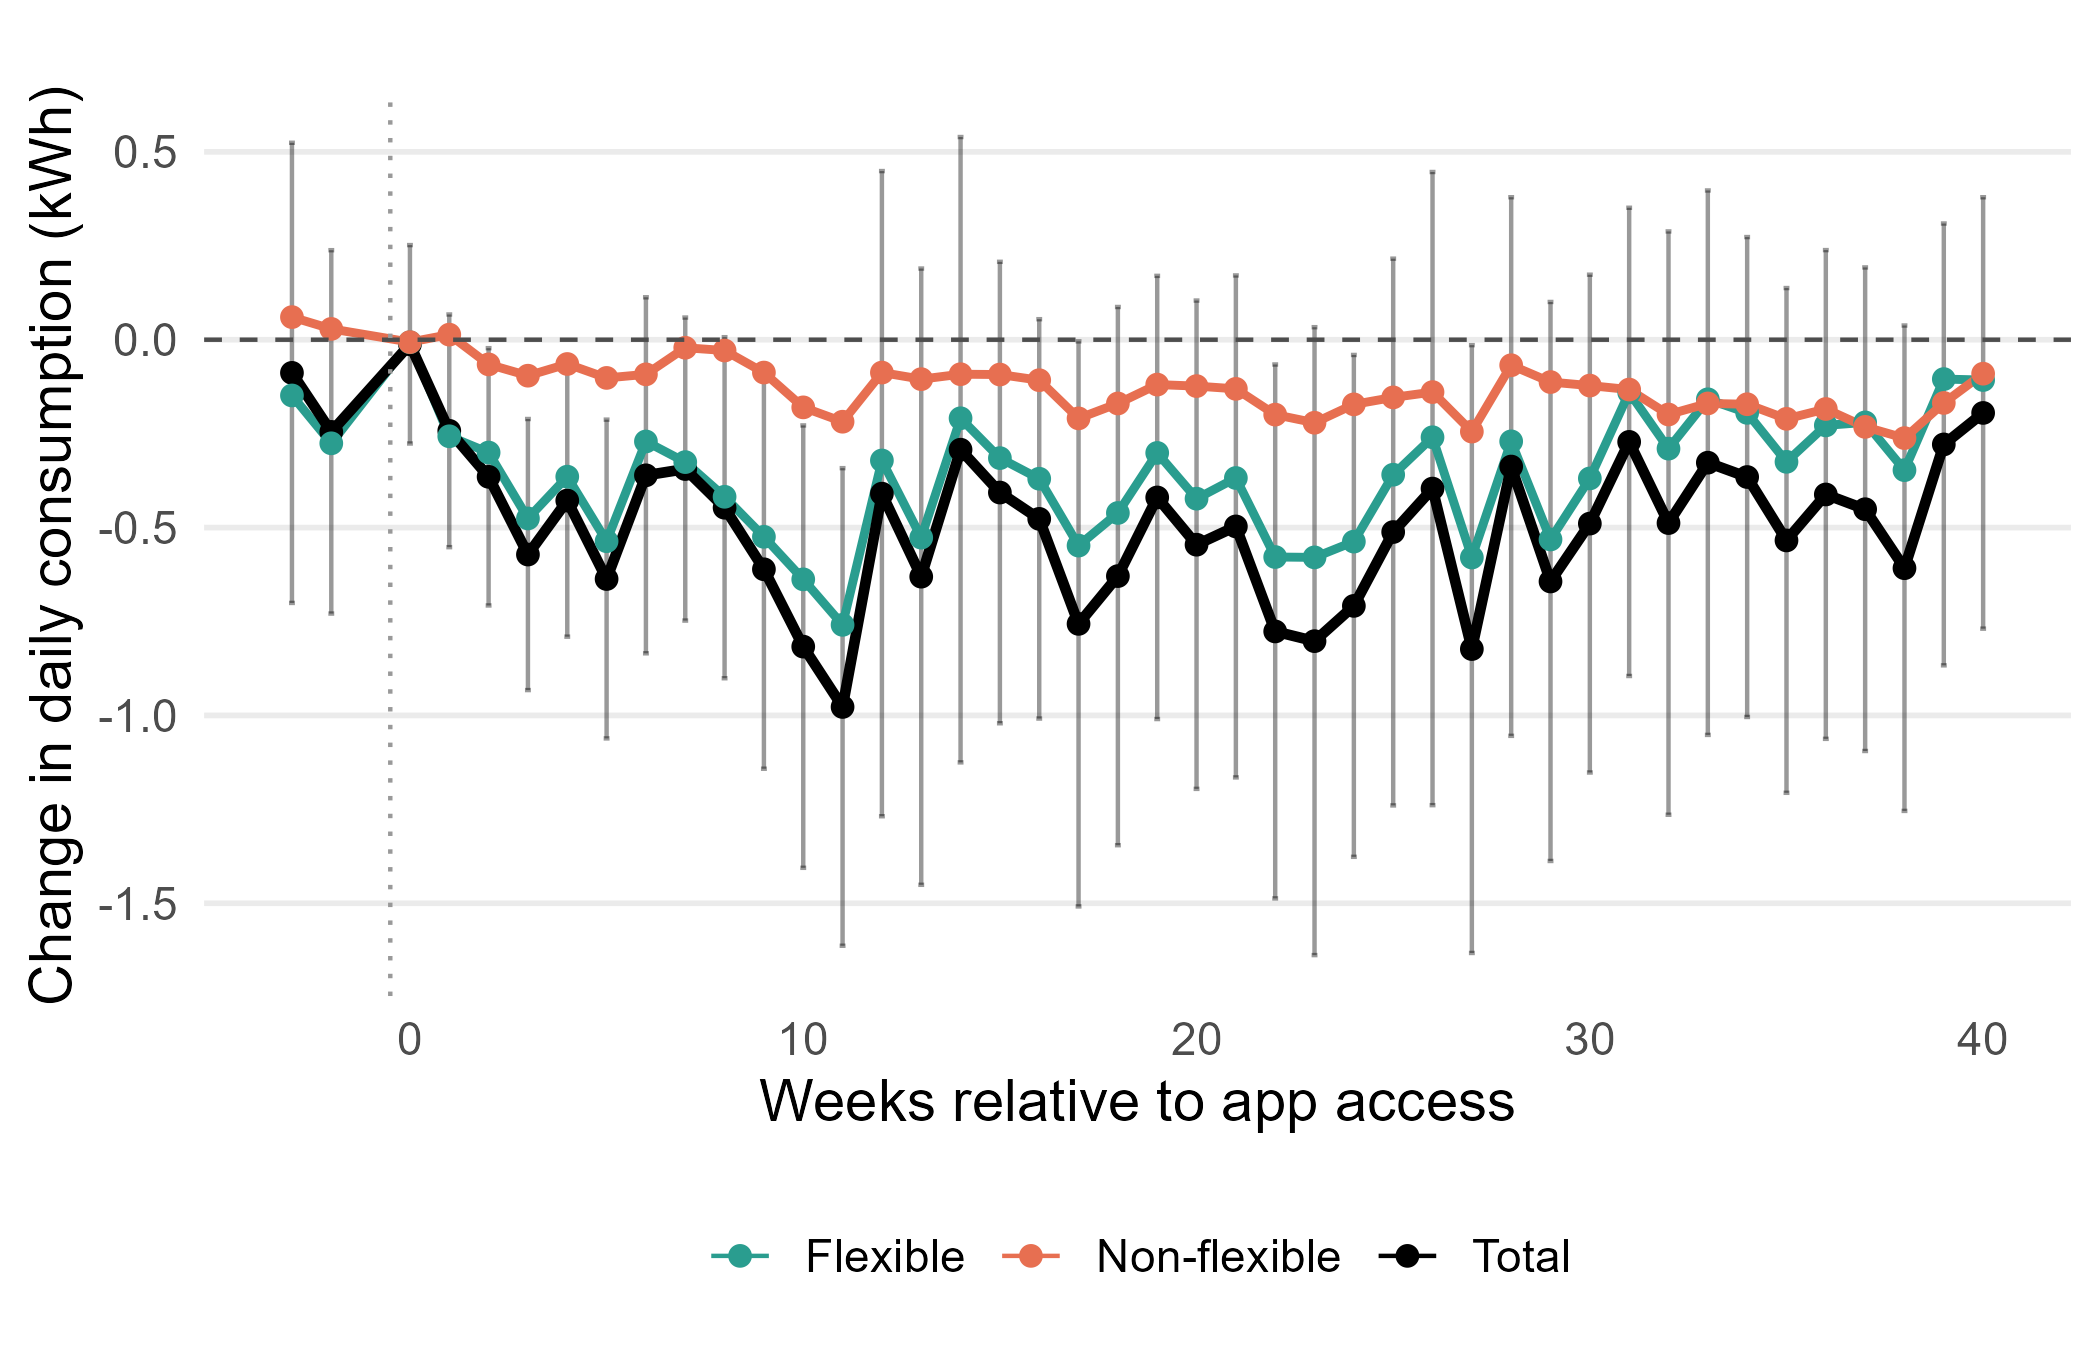
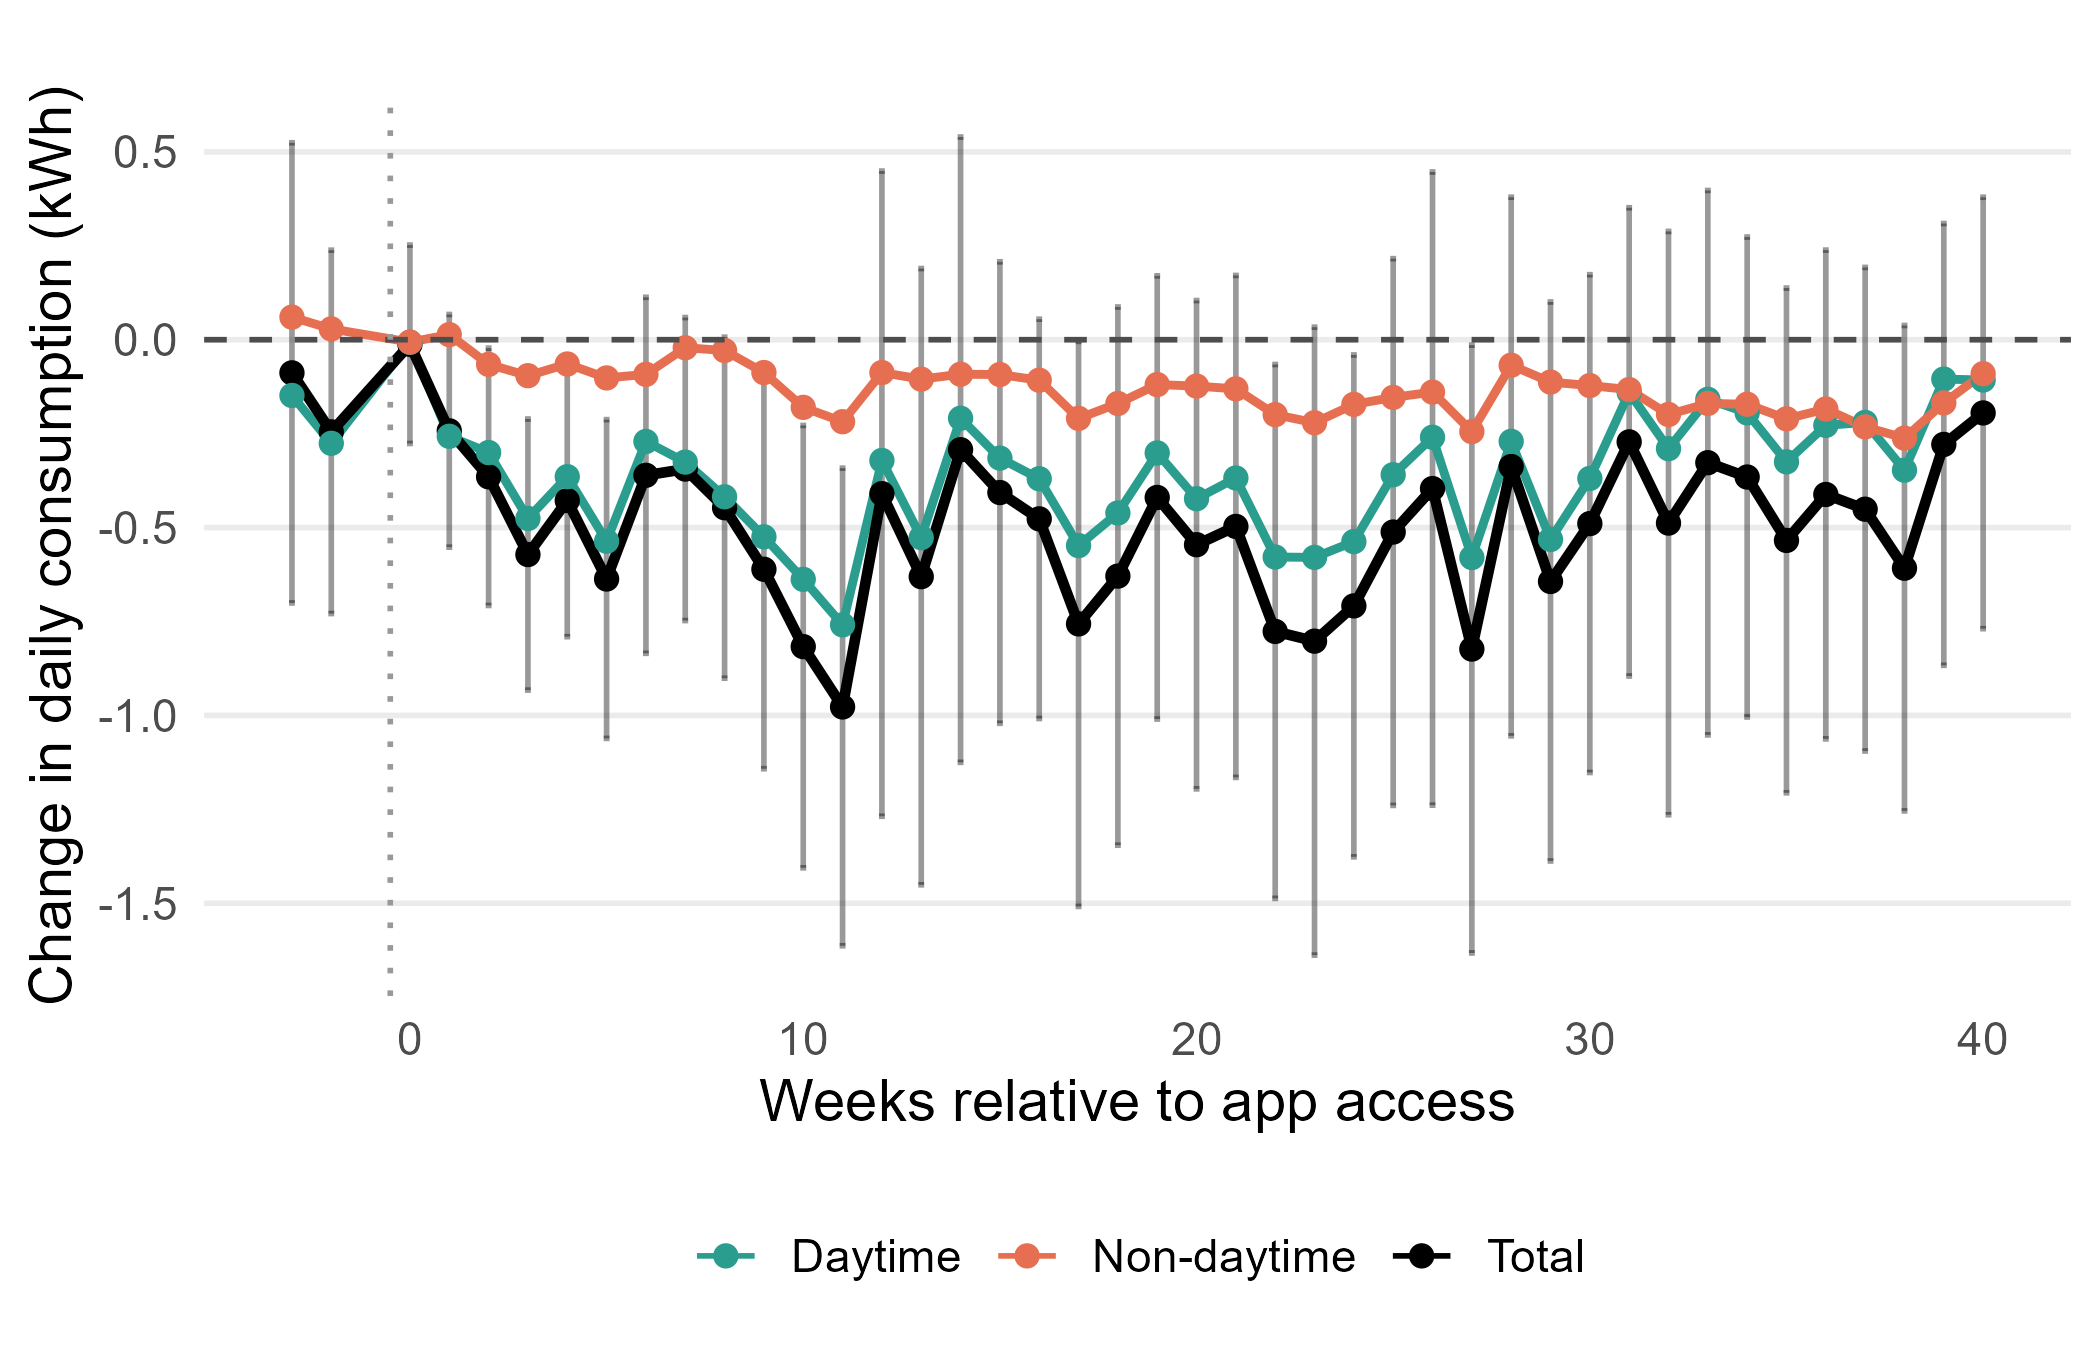
Fix verified numerical errors and unify daytime/non-daytime terminology
- Correct mean daily consumption footnote (9.8 -> 10 kWh) in results
- Correct Tranche 2 pre-treatment control mean (0.413 -> 0.417 kWh)
- Add footnote explaining obs-count difference in main results table
- Add footnote explaining 881 vs 892 households in appendix table
- Rename "flexible/non-flexible" to "daytime/non-daytime" throughout
  paper text, tables, and the event-study figure for consistency with
  the conceptual framework's terminology

diff --git a/paper/sections/05_results.tex b/paper/sections/05_results.tex
@@ -10,9 +10,9 @@ y_{it} = \sum_{k \neq -1} \beta_k \cdot \mathbb{1}\{t - G_i = k\} + \alpha_i + \
 \]
 where $y_{it}$ is household $i$'s daily electricity consumption (kWh, aggregated from 15-minute smart meter data), $G_i$ denotes app access timing, $\beta_k$ traces effects relative to the $k=-1$ pre-treatment reference, $\alpha_i$ absorbs time-invariant household differences, and $\delta_t$ controls common shocks (weekly or daily fixed effects). Standard errors are clustered at the household level.
 
-Table \ref{table:main_results} presents the main results. Across specifications, we observe a consistent reduction in electricity consumption following access to the application (columns 1--3). In the baseline specification (column 1), the two-way fixed effects (TWFE) estimate indicates a decrease of 0.47 kWh per household per day (SE = 0.206, $p = 0.023$). The corresponding Sun--Abraham estimate is similar in magnitude ($-0.45$ kWh, SE = 0.294, $p = 0.128$), suggesting that accounting for staggered treatment timing and heterogeneous effects does not materially alter the point estimate, although statistical precision is reduced. Including weekly fixed effects yields nearly identical results, with estimated reductions of 0.46--0.47 kWh (column 3). This corresponds to a reduction of approximately 4.7\% in electricity consumption.\footnote{This corresponds to about 4.7\%, computed as the 0.46 kWh effect relative to mean daily consumption of about 9.8 kWh.} We treat the Sun--Abraham estimator as our preferred specification, since it is robust to the biases that can arise in two-way fixed-effects models under staggered adoption and heterogeneous treatment effects \citep{sunEstimatingDynamicTreatment2021}.
+Table \ref{table:main_results} presents the main results. Across specifications, we observe a consistent reduction in electricity consumption following access to the application (columns 1--3). In the baseline specification (column 1), the two-way fixed effects (TWFE) estimate indicates a decrease of 0.47 kWh per household per day (SE = 0.206, $p = 0.023$). The corresponding Sun--Abraham estimate is similar in magnitude ($-0.45$ kWh, SE = 0.294, $p = 0.128$), suggesting that accounting for staggered treatment timing and heterogeneous effects does not materially alter the point estimate, although statistical precision is reduced. Including weekly fixed effects yields nearly identical results, with estimated reductions of 0.46--0.47 kWh (column 3). This corresponds to a reduction of approximately 4.7\% in electricity consumption.\footnote{This corresponds to about 4.7\%, computed as the 0.47 kWh TWFE effect relative to mean daily consumption of about 10 kWh.} We treat the Sun--Abraham estimator as our preferred specification, since it is robust to the biases that can arise in two-way fixed-effects models under staggered adoption and heterogeneous treatment effects \citep{sunEstimatingDynamicTreatment2021}.
 
-To further investigate the underlying behavioral adjustments and to address our second research question of whether treatment effects are larger for flexible than for non-flexible consumption, we decompose total consumption into these two components. The reduction in electricity use is primarily driven by flexible consumption, where households have greater scope for behavioral adaptation. In this domain, the estimated treatment effect ranges from 0.31 to 0.33 kWh (e.g., column 4: $-0.31$ kWh, SE = 0.156, $p = 0.048$), indicating economically meaningful reductions. In contrast, the effect on non-flexible consumption is smaller (approximately $-0.14$ to $-0.15$ kWh; column 5: $p = 0.082$) and only weakly statistically significant.
+To further investigate the underlying behavioral adjustments and to address our second research question of whether treatment effects are larger for daytime than for non-daytime consumption, we decompose total consumption into these two components. The reduction in electricity use is primarily driven by daytime consumption, where households have greater scope for behavioral adaptation. In this domain, the estimated treatment effect ranges from 0.31 to 0.33 kWh (e.g., column 4: $-0.31$ kWh, SE = 0.156, $p = 0.048$), indicating economically meaningful reductions. In contrast, the effect on non-daytime consumption is smaller (approximately $-0.14$ to $-0.15$ kWh; column 5: $p = 0.082$) and only weakly statistically significant.
 
 
 
@@ -24,7 +24,7 @@ To further investigate the underlying behavioral adjustments and to address our 
 \resizebox{\textwidth}{!}{%
 \begin{tabular}{lccccc}
 \toprule
- & Daily & Log hourly & Daily & Flexible & Non-flex. \\
+ & Daily & Log hourly & Daily & Daytime & Non-day. \\
  & kWh & kWh & kWh & kWh & kWh \\
 \cmidrule(lr){2-6}
  & (1) & (2) & (3) & (4) & (5) \\
@@ -74,7 +74,7 @@ Time FE      & Day & Day & Week & Week & Week \\
 
 \begin{tablenotes}[flushleft]
 \footnotesize
-\item The table reports intention-to-treat effects of app access on electricity consumption. Columns (1) and (3) use daily electricity consumption in kWh. Column (2) uses log hourly electricity consumption. Columns (4) and (5) split daily consumption into flexible and non-flexible consumption. TWFE estimates are from two-way fixed effects regressions. Sun--Abraham estimates report average treatment effects from staggered difference-in-differences models. Standard errors clustered at the household level are reported in parentheses. Significance levels: ** $p<0.05$, * $p<0.10$.
+\item The table reports intention-to-treat effects of app access on electricity consumption. Columns (1) and (3) use daily electricity consumption in kWh. Column (2) uses log hourly electricity consumption. Columns (4) and (5) split daily consumption into daytime and non-daytime consumption. TWFE estimates are from two-way fixed effects regressions. Sun--Abraham estimates report average treatment effects from staggered difference-in-differences models. Standard errors clustered at the household level are reported in parentheses. Significance levels: ** $p<0.05$, * $p<0.10$. The observation count in column (2) (8,287,525) is lower than the total number of hourly observations in the analysis sample (8,495,920, see Appendix Table~\ref{tab:sample_selection}) because the log specification drops 208,395 hours with zero consumption.
 \end{tablenotes}
 
 \end{threeparttable}
@@ -84,12 +84,12 @@ We next examine how treatment effects evolve over time. Figure \ref{fig:event_st
 
 Following app access, electricity consumption declines rapidly and becomes statistically distinguishable from zero after approximately two weeks. The reduction reaches a peak between weeks 3 and 11, with effect sizes ranging from about 0.6 to 1.0 kWh per day. For instance, consumption decreases by 0.572 kWh in week 3 ($p = 0.002$) and by 0.978 kWh in week 11 ($p = 0.003$). After this initial adjustment phase, the treatment effect gradually attenuates. The reduction remains significant for ~20–25 weeks. Thereafter, point estimates remain negative but are no longer precise. As shown in Figure \ref{fig:event_study}, the total effect remains consistently negative throughout the post-treatment period, with magnitudes of approximately 0.4–0.6 kWh. The pooled estimate beyond week 50 is around 0.55 kWh, indicating sustained reductions in electricity consumption over time. Notably, this persistence arises despite a substantial decline in app usage, suggesting that the behavioral adjustments induced by the intervention are not purely transitory. 
 
-The decomposition by consumption type provides additional insight. As shown in Figure~\ref{fig:event_study}, the decline in total consumption is driven primarily by flexible usage, which tracks the overall treatment effect closely over time. By contrast, non-flexible consumption remains comparatively stable and close to zero.
+The decomposition by consumption type provides additional insight. As shown in Figure~\ref{fig:event_study}, the decline in total consumption is driven primarily by daytime usage, which tracks the overall treatment effect closely over time. By contrast, non-daytime consumption remains comparatively stable and close to zero.
 
 \begin{figure}[htbp]
     \centering
     \includegraphics[width=\linewidth]{paper/figures/event_study_consumption.png}
-    \caption{Dynamic treatment effects of app access on electricity consumption. The figure shows weekly event-study coefficients relative to the week prior to treatment. The black line represents total consumption, while green and orange lines denote flexible and non-flexible consumption, respectively. Vertical bars indicate 95\% confidence intervals for the total effect.}
+    \caption{Dynamic treatment effects of app access on electricity consumption. The figure shows weekly event-study coefficients relative to the week prior to treatment. The black line represents total consumption, while green and orange lines denote daytime and non-daytime consumption, respectively. Vertical bars indicate 95\% confidence intervals for the total effect.}
     \label{fig:event_study}
 \end{figure}
 
@@ -154,9 +154,9 @@ Time FE & Day & Day & Day \\
 
 \subsection{Interpretation and economic relevance}
 
-The results show that, on average, access to the app reduces household electricity consumption. This effect is concentrated in flexible consumption, indicating that households primarily adjust along margins over which they have greater short-term control. Treatment effects are strongest among highly engaged households, while dynamic estimates suggest gradual attenuation over time. These findings are consistent with the salience framework outlined in Section 2. According to this framework, households may consume more electricity than they would if they had access to fully salient information, if the costs of electricity use are delayed, aggregated, or difficult to attribute to specific activities. By making consumption, monetary costs and emissions more visible, the app may encourage households to make consumption choices similar to those they would make with more salient information. The concentration of effects during flexible hours is also consistent with this interpretation since adjustments should be easier to make along the margins over which households have short-term control. The gradual attenuation of effects is also consistent with the framework: if engagement only raises the salience of electricity costs while households are actively attending to the information, a decline in engagement may be associated with a return to pre-treatment behavior. While the experiment identifies the effect of offering access to the app to households registered for the study, it does not directly estimate the effects on welfare or the deadweight loss from low salience. Lower electricity consumption improves welfare if it reflects better-informed choices, but not if it reflects reductions in valued electricity services.
+The results show that, on average, access to the app reduces household electricity consumption. This effect is concentrated in daytime consumption, indicating that households primarily adjust along margins over which they have greater short-term control. Treatment effects are strongest among highly engaged households, while dynamic estimates suggest gradual attenuation over time. These findings are consistent with the salience framework outlined in Section 2. According to this framework, households may consume more electricity than they would if they had access to fully salient information, if the costs of electricity use are delayed, aggregated, or difficult to attribute to specific activities. By making consumption, monetary costs and emissions more visible, the app may encourage households to make consumption choices similar to those they would make with more salient information. The concentration of effects during daytime hours is also consistent with this interpretation since adjustments should be easier to make along the margins over which households have short-term control. The gradual attenuation of effects is also consistent with the framework: if engagement only raises the salience of electricity costs while households are actively attending to the information, a decline in engagement may be associated with a return to pre-treatment behavior. While the experiment identifies the effect of offering access to the app to households registered for the study, it does not directly estimate the effects on welfare or the deadweight loss from low salience. Lower electricity consumption improves welfare if it reflects better-informed choices, but not if it reflects reductions in valued electricity services.
 
-Taken together, the concentration of effects in flexible consumption and the co-movement of treatment effects with engagement appear more consistent with a salience channel than with pure habit formation: had households formed durable habits, reductions would be expected to persist even as engagement declines. We cannot, however, rule out a combination of channels operating simultaneously.
+Taken together, the concentration of effects in daytime consumption and the co-movement of treatment effects with engagement appear more consistent with a salience channel than with pure habit formation: had households formed durable habits, reductions would be expected to persist even as engagement declines. We cannot, however, rule out a combination of channels operating simultaneously.
 
 The estimated reduction in electricity use is modest for individual households. Using a baseline treatment effect of $0.47$\,kWh per household per day and an average electricity price of \euro{}$0.1677$ per kWh, the implied reduction in electricity expenditure amounts to approximately \euro{}$0.08$ per day, or about \euro{}$28.75$ per year per household. For the $449$ households assigned to the information condition in the analysis sample, this equates to approximately \euro{}$12{,}910$ per year. 
 

diff --git a/paper/sections/Appendix.tex b/paper/sections/Appendix.tex
@@ -128,7 +128,7 @@ Computer (share)               & 0.980 & 0.720 & 0.730 \\
 \toprule
 \multicolumn{4}{c}{\textbf{Weeks $-3$ to $24$}} & \multicolumn{4}{c}{\textbf{Weeks $25$ to $50+$}} \\
 \cmidrule(lr){1-4} \cmidrule(lr){5-8}
- & Total & Flexible & Non-flexible &  & Total & Flexible & Non-flexible \\
+ & Total & Daytime & Non-daytime &  & Total & Daytime & Non-daytime \\
 \midrule
 
 Week $-3$ & -0.088 & -0.148 & 0.060 & Week $25$ & -0.512 & -0.359 & -0.154 \\
@@ -255,7 +255,7 @@ HHs & 136 & 18 & 12 & 19 \\
 \end{tabular}
 \begin{tablenotes}[flushleft]
 \footnotesize
-\item Baseline = Control + Never-engaged app households. Engagement categories from post-treatment login tertiles. Pre-treatment means weighted by available days per tranche. Patterns are descriptive; post-treatment engagement measurement may correlate with unobserved baseline characteristics.
+\item Baseline = Control + Never-engaged app households. Engagement categories from post-treatment login tertiles. Pre-treatment means weighted by available days per tranche. Patterns are descriptive; post-treatment engagement measurement may correlate with unobserved baseline characteristics. Household counts sum to 881 rather than the full analysis sample of 892: 11 households (concentrated in Tranche 2, which has only a 7-day pre-treatment window) have no pre-treatment observations and are therefore excluded from this table.
 \end{tablenotes}
 \end{threeparttable}
 \end{table}

diff --git a/paper/sections/03_Conceptual Framework.tex b/paper/sections/03_Conceptual Framework.tex
@@ -42,6 +42,6 @@ The framework also guides two additional analyses. If the response reflects beha
 
 We therefore distinguish between daytime consumption (07:00–22:00), when discretionary adjustments are most feasible, and night-time consumption outside this window.
 
-This distinction is an empirical proxy rather than an appliance-level classification, but it allows us to examine whether reductions are concentrated in more discretionary electricity use. This leads to the second research question: are treatment effects larger for flexible than for non-flexible consumption?
+This distinction is an empirical proxy rather than an appliance-level classification, but it allows us to examine whether reductions are concentrated in more discretionary electricity use. This leads to the second research question: are treatment effects larger for daytime than for non-daytime consumption?
 
 Finally, the model highlights the role of attention over time. If the application mainly works by making electricity costs temporarily more salient, treatment effects should attenuate as app usage declines. If households learn about their consumption patterns or form new habits, some reductions may persist even after engagement falls. The third research question therefore asks whether the time profile of treatment effects coincides with the time profile of app engagement. Because engagement is measured after treatment assignment, this analysis is descriptive and is not interpreted as the causal effect of app usage.

diff --git a/paper/sections/04_Experimental Design.tex b/paper/sections/04_Experimental Design.tex
@@ -140,7 +140,7 @@ Dwelling size (m$^2$)     & 134.42 (65.36)& 128.92 (54.14)& 0.171 \\
 \end{threeparttable}
 \end{table}
 
-We next examine pre-treatment consumption patterns. Figure~\ref{fig:pre_treatment_load_curve} plots average hourly electricity consumption by treatment status during the pre-treatment period. The load profiles of the two groups are closely aligned throughout the day. To account for staggered rollout, Figure~\ref{fig:tranche_pre_calendar} presents pre-treatment consumption separately for each tranche in calendar time. Across all tranches, the control and information groups exhibit similar pre-treatment patterns. These graphical patterns are also reflected in the summary statistics. Mean hourly consumption is highly similar across groups within tranche (for example, 0.359 versus 0.370 kWh in tranche 1 and 0.413 versus 0.412 kWh in tranche 2), and differences in total pre-treatment consumption are small relative to within-group variation. Taken together, the balance checks and pre-treatment comparisons support the internal validity of the experimental design.
+We next examine pre-treatment consumption patterns. Figure~\ref{fig:pre_treatment_load_curve} plots average hourly electricity consumption by treatment status during the pre-treatment period. The load profiles of the two groups are closely aligned throughout the day. To account for staggered rollout, Figure~\ref{fig:tranche_pre_calendar} presents pre-treatment consumption separately for each tranche in calendar time. Across all tranches, the control and information groups exhibit similar pre-treatment patterns. These graphical patterns are also reflected in the summary statistics. Mean hourly consumption is highly similar across groups within tranche (for example, 0.359 versus 0.370 kWh in tranche 1 and 0.417 versus 0.412 kWh in tranche 2), and differences in total pre-treatment consumption are small relative to within-group variation. Taken together, the balance checks and pre-treatment comparisons support the internal validity of the experimental design.
 
 \begin{figure}[H]
 \centering